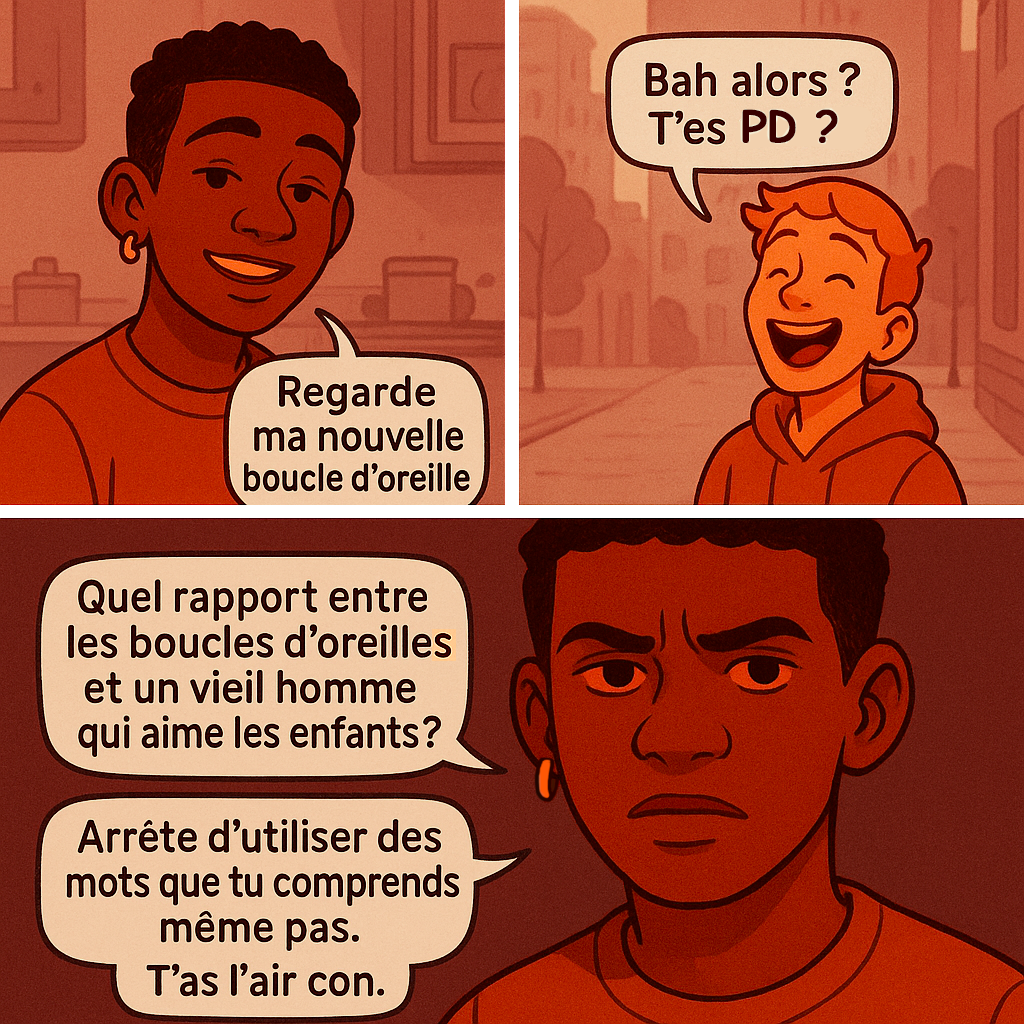
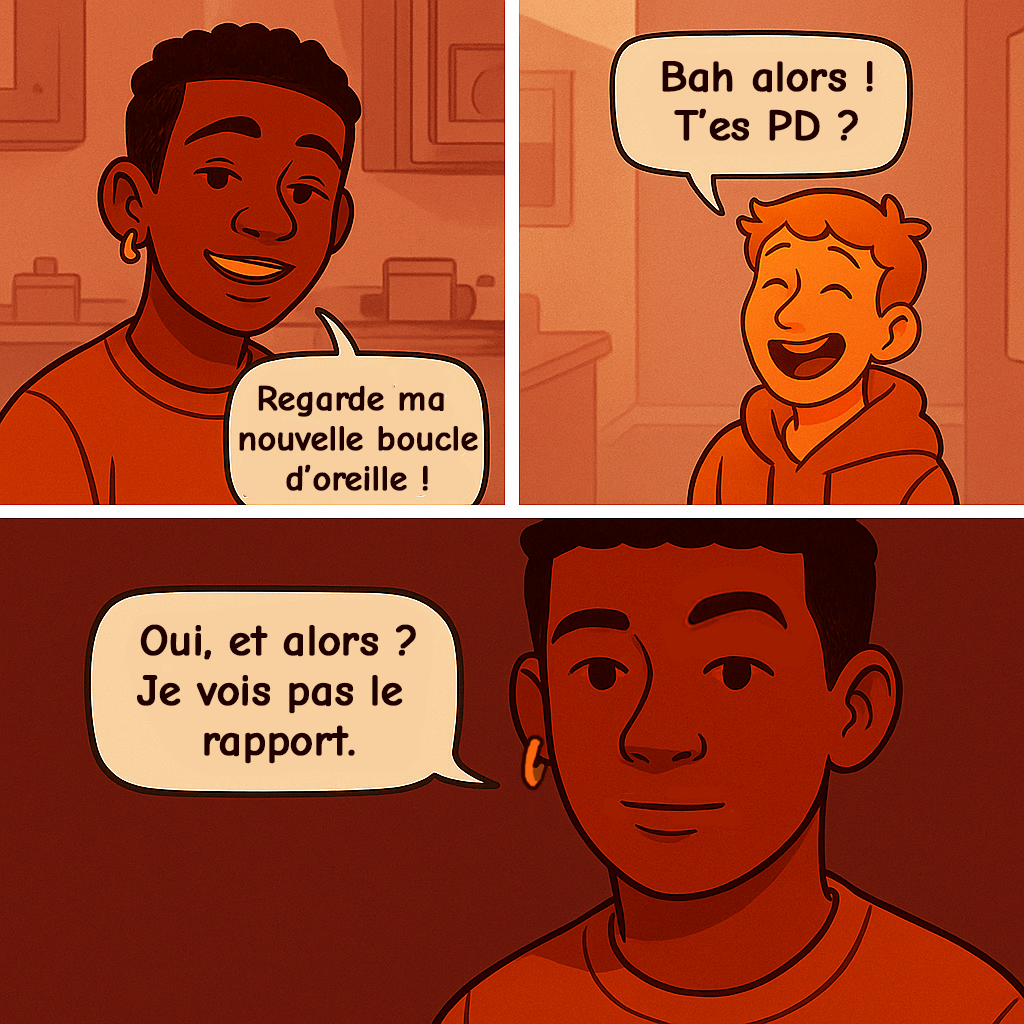
Corrections pages

diff --git a/src/pages/Vie-courante/Detente-relax.jsx b/src/pages/Vie-courante/Detente-relax.jsx
@@ -75,7 +75,7 @@ const nike = [
 const anxiete = [
   {
     link: "\anxiete",
-    emoji: "😟",
+    emoji: "😶🌫",
     label: "Anxiété",
     description: "Comment faire face à son anxiété ?",
   }
@@ -189,7 +189,7 @@ const Detente_relax = () => {
         "Ruminations : repasser en boucle des événements passés",
         "Anticipations catastrophiques : imaginer le pire sans preuve",
         "Pensées dichotomiques : tout ou rien",
-        "Jugements excessifs sur soi (je ne suis pas à la hauteur)"
+        "Jugements excessifs sur soi (« je ne suis pas à la hauteur »)"
       ]} />
 
 
@@ -303,9 +303,9 @@ const Detente_relax = () => {
       <h2 className="sous-titre-2">Améliorer son mode de vie</h2>
       <p className="texte">Adopter un <b>mode de vie sain</b> peut contribuer à réduire le stress. Voici quelques pistes à explorer :</p>
       <BulletList items={[
-        "Activité physique régulière : privilégie les activités que tu aimes. Faire du sport libère des endorphines, hormones du bien-être",
-        "Alimentation équilibrée : privilégie les fruits, légumes, protéines et céréales complètes. Manger plus sainement aide à stabiliser l'humeur.",
-        "Sommeil : veille à avoir des horaires réguliers et un environnement propice au sommeil. Améliorer son sommeil réduit la sensibilité au stress.", 
+        <><b>Activité physique régulière</b> : privilégie les activités que tu aimes. Faire du sport libère des endorphines, hormones du bien-être</>,
+        <><b>Alimentation équilibrée</b> : privilégie les fruits, légumes, protéines et céréales complètes. Manger plus sainement aide à stabiliser l'humeur.</>,
+        <><b>Sommeil</b> : veille à avoir des horaires réguliers et un environnement propice au sommeil. Améliorer son sommeil réduit la sensibilité au stress.</>,
         ]} />
 
       <p className="texte">Pour en savoir plus sur ces sujets, consulte les pages dédiées : </p>
@@ -367,11 +367,11 @@ const Detente_relax = () => {
 
       <h2 className="sous-titre-2">Autres approches utiles</h2>
       <BulletList items={[
-        "S'organiser : établir des routines, planifier les tâches. Cela aide à réduire le sentiment de surcharge.",
-        "Exposition à la nature (balade, jardinage). La nature a un effet apaisant prouvé.",
-        "Loisirs créatifs et activités plaisantes (musique, dessin). Ces activités favorisent la détente et le bien-être.",
-        "Limiter la consommation d'informations anxiogènes (réseaux, actu). Cela aide à réduire le stress lié à l'actualité.",
-        "Soutien social : parler avec des ami·e·s ou proches. Le partage aide à relativiser et à se sentir moins seul·e."
+        <><b>S'organiser</b> : établir des routines, planifier les tâches. Cela aide à réduire le sentiment de surcharge.</>,
+        <><b>Exposition à la nature</b> : (balade, jardinage). La nature a un effet apaisant prouvé.</>,
+        <><b>Loisirs créatifs et activités plaisantes</b> : (musique, dessin). Ces activités favorisent la détente et le bien-être.</>,
+        <><b>Limiter la consommation d'informations anxiogènes</b> : (réseaux, actu). Cela aide à réduire le stress lié à l'actualité.</>,
+        <><b>Soutien social</b> : parler avec des ami·e·s ou proches. Le partage aide à relativiser et à se sentir moins seul·e.</>
       ]} />
 
       <h2 className="sous-titre-2">Quand consulter ?</h2>

diff --git a/src/pages/Connaissance-soi/Genre.jsx b/src/pages/Connaissance-soi/Genre.jsx
@@ -40,7 +40,7 @@ const étapesAccompagnement = [
   {
     title: "La transition est rétro‑active",
     subtitle:
-      "Parlez du passé avec les bons pronoms ; privilégiez des tournures neutres si besoin.",
+      "Parlez du passé avec les pronoms actuels ; privilégiez des tournures neutres si besoin.",
   },
   {
     title: "Manifestez votre soutien activement",
@@ -124,6 +124,8 @@ const Genre = () => {
           }
         />
 
+        <h3 className="sous-titre-2">Des exemples d'identité de genre</h3>
+
               <BulletList
                 items={[
                   <><b>Cisgenre :</b> identité en accord avec le sexe assigné à la naissance.</>,
@@ -144,6 +146,11 @@ const Genre = () => {
                   },
                 ]}
               />
+
+              <ChiffresGroup chiffres={chiffresIdentite} />
+
+
+              <h3 className="sous-titre-2">La disphorie de genre</h3>
 
               <p className="texte">
                 La <strong>dysphorie de genre</strong> désigne le malaise ou la souffrance qu'une personne peut ressentir quand
@@ -170,7 +177,6 @@ const Genre = () => {
               <Quote text="Le genre n'est pas ce qu'on voit, mais ce qu'on ressent." />
 
 
-        <ChiffresGroup chiffres={chiffresIdentite} />
 
         <ExternalLinkBlock
           title="Pour en savoir plus"
@@ -313,7 +319,7 @@ const Genre = () => {
               description: "Pour trouver un groupe près de chez toi",
             },
             {
-              link: "https://www.fransgenre.fr/associations",
+              link: "https://www.instagram.com/ost_lyon/",
               imageSrc: "/assets/ost_lyon.jpg",
               label: "OST Lyon",
               description: "Organisation de Solidarité Trans, d'autosupport et de lutte",
@@ -360,6 +366,8 @@ const Genre = () => {
         <ExternalLinkBlock
           resources={resources_Autres_pages}
         />
+
+        <p className="texte">Les formes de discriminations sont multiples. Elles peuvent se matérialiser par une <b>injure homophobe ou transphobe</b>, orale ou écrite, qui est punie d'un <b>an d'emprisonnement et de 45 000 € d'amende</b>. Le <b>mégenrage</b> (le fait de s'adresser à une personne avec des pronoms ou un prénom qui ne correspondent pas à son identité de genre) intentionnel est aussi une forme de discrimination.</p>
 
         <Quote text="Ça ne vous dérange pas d'apprendre un surnom, alors pourquoi pas un pronom ?" />
 

diff --git a/src/components/Header.jsx b/src/components/Header.jsx
@@ -19,7 +19,7 @@ const menuItems = [
   {
     title: "💉 Risques addictifs",
     submenu: [
-      { title: "🔞 Addiction à la pornographie", link: "/add_porno", inactive:true},
+      { title: "🔞 Addiction à la pornographie", link: "/add_porno"},
       { title: "📱 Addictions aux écrans & réseaux sociaux", link: "/add_reseaux" },
       { title: "🍺 Consommation d'alcool", link: "/alcool" },
       { title: "🎆 Consommation de stupéfiants", link: "/stup" },
@@ -58,7 +58,7 @@ const menuItems = [
       { title: "🚗 Accidents de la circulation", link: "/accident", inactive:true },
       { title: "🥬 Alimentation", link: "/aliment"  },
       { title: "🌿 Démarches écologiques", link: "/ecolo", inactive:true  },
-      { title: "🧘 Détente & relaxation", link: "/detente", inactive:true  },
+      { title: "🧘 Détente & relaxation", link: "/detente" },
       { title: "💰 Précarité économique", link: "/prec_eco"  },
       { title: "💸 Précarité menstruelle", link: "/prec_mens"  },
       { title: "⛹ Santé physique & sport", link: "/sport", inactive:true  },

diff --git a/src/pages/Risques-addictifs/Pornographie.jsx b/src/pages/Risques-addictifs/Pornographie.jsx
@@ -24,14 +24,14 @@ const chiffres = [
 
 const isolement = [
   { link: "/isolement",
-    emoji: "🧍♂",
+    emoji: "🧍",
     label: "Isolement",
     description: "Comprendre et combattre l'isolement social" }
 ];
 
 const depression = [
   { link: "/depression",
-    emoji: "😞",
+    emoji: "🥺",
     label: "Dépression",
     description: "Reconnaître et gérer la dépression" }
 ];
